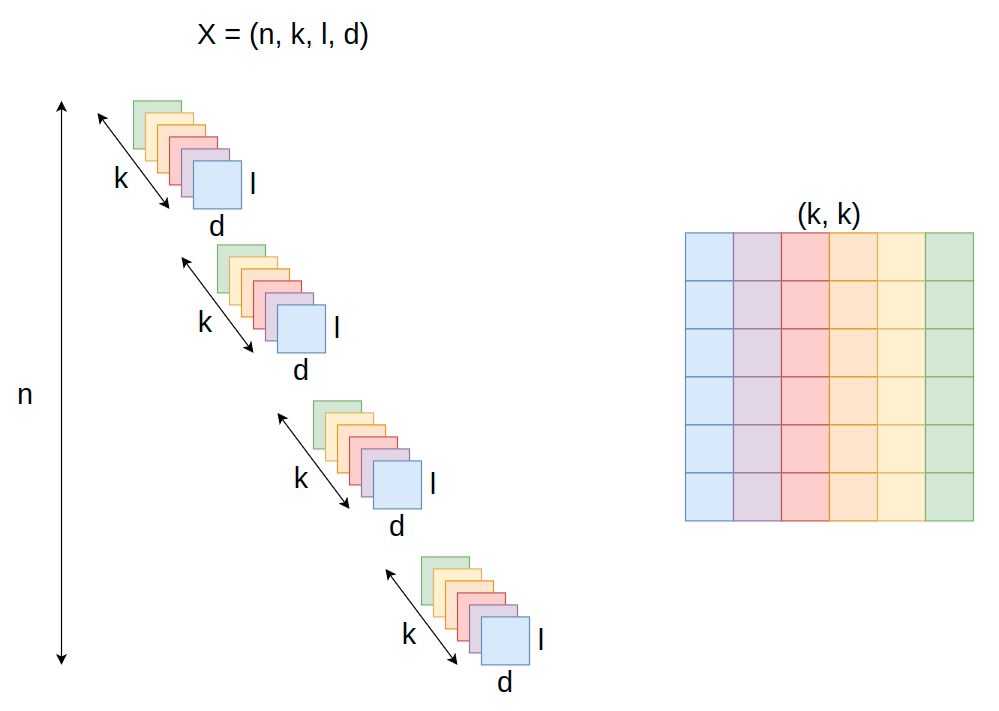
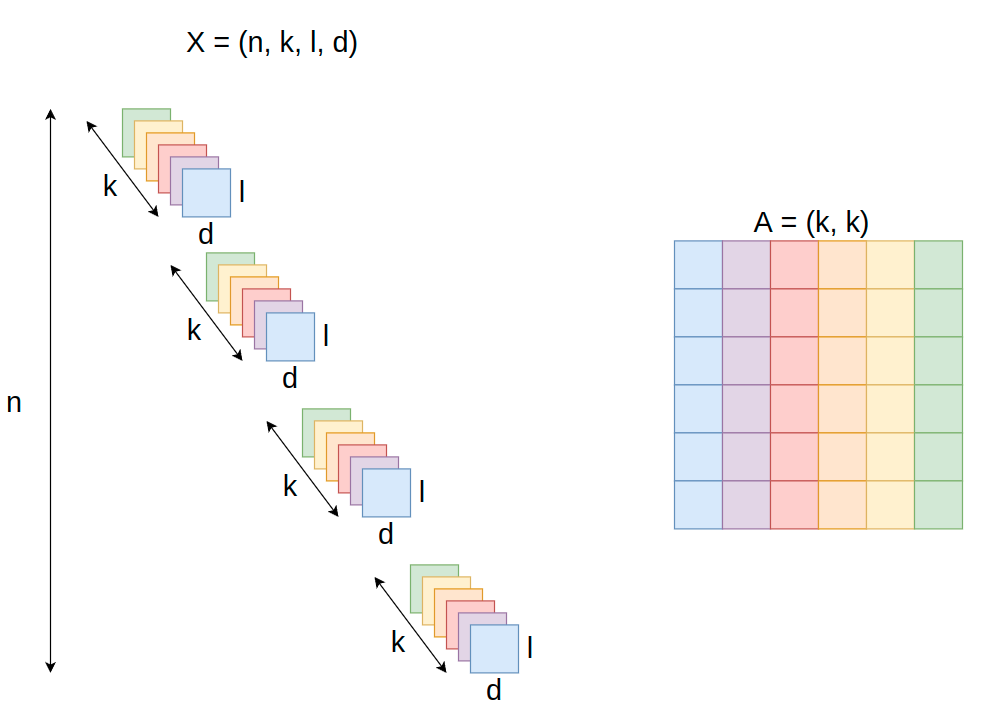
XTA

diff --git a/README.md b/README.md
@@ -3,12 +3,18 @@
 ## MatMulandEinsum.py
 
 - 比較 Matmul 和 Einsum 的差別。
+
 - X 是 data ，其維度為 (*# data, # node, # time, # feature)
   - 資料的數量: n。
   - 每筆資料有多少 node: k。
   - 每個 node 值會隨時間變化: l。
   - 每個 node 有 d 個 feature: d。
 - A 是 adjacency matrix, 代表一張 DAG (Bayesian Network)，其維度為(# node, # node)
-- 簡化問題: n=1, k=3, l=1, d=1，於是 X=(1,3,1,1), A=(3,3)
 ![alt text](./MatMulandEinsum/DataDescription.png)
+
+- 簡化問題: n=1, k=3, l=1, d=1，於是 X=(1,3,1,1), A=(3,3)
+![alt text](./MatMulandEinsum/Simple.png)
+
+- 計算 $H = X^T\times A$
+![alt text](./MatMulandEinsum/XTA.png)
 
